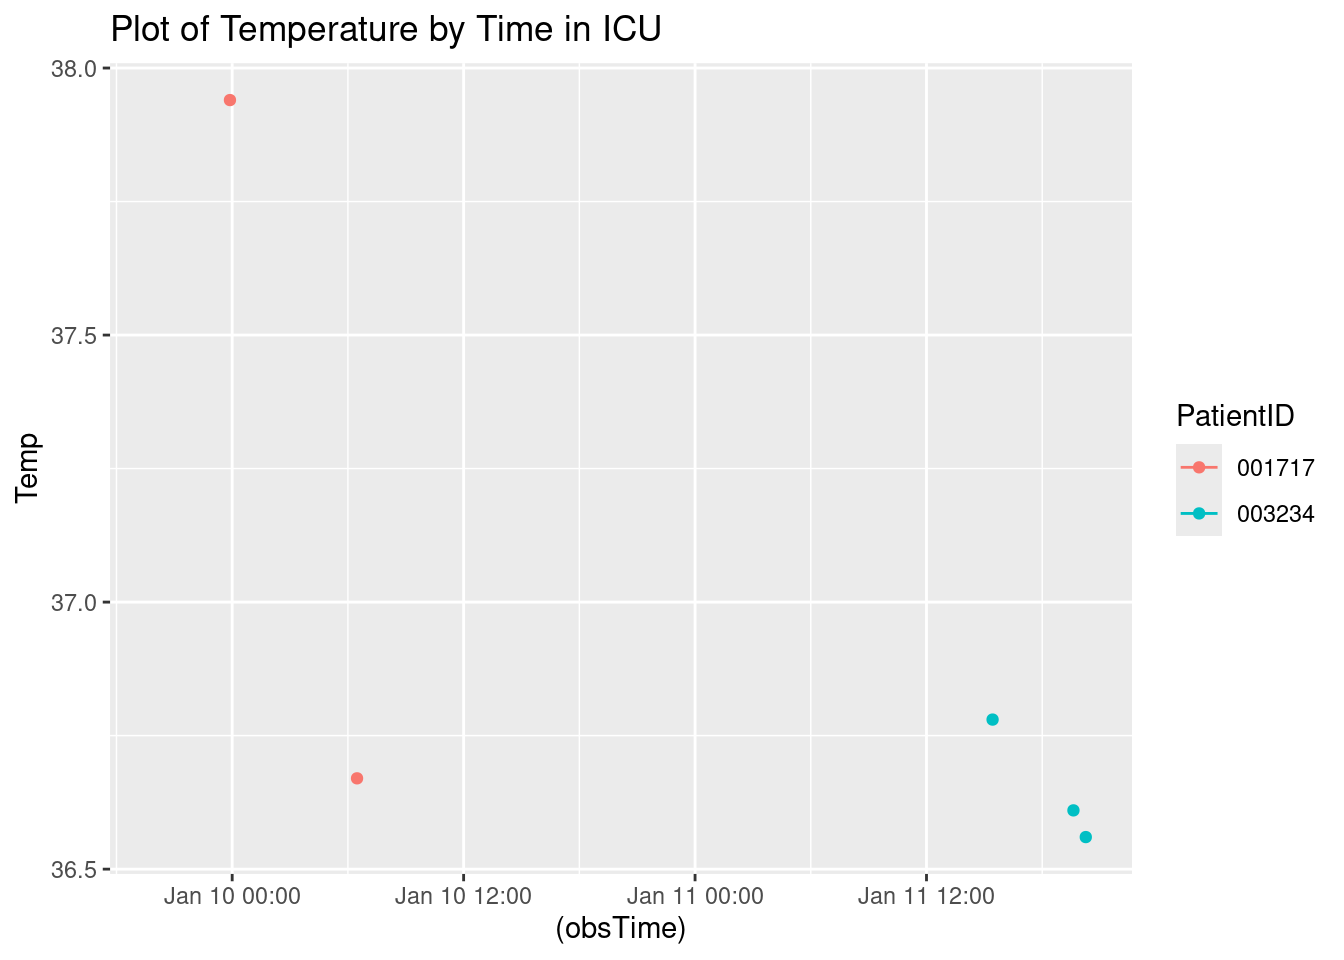
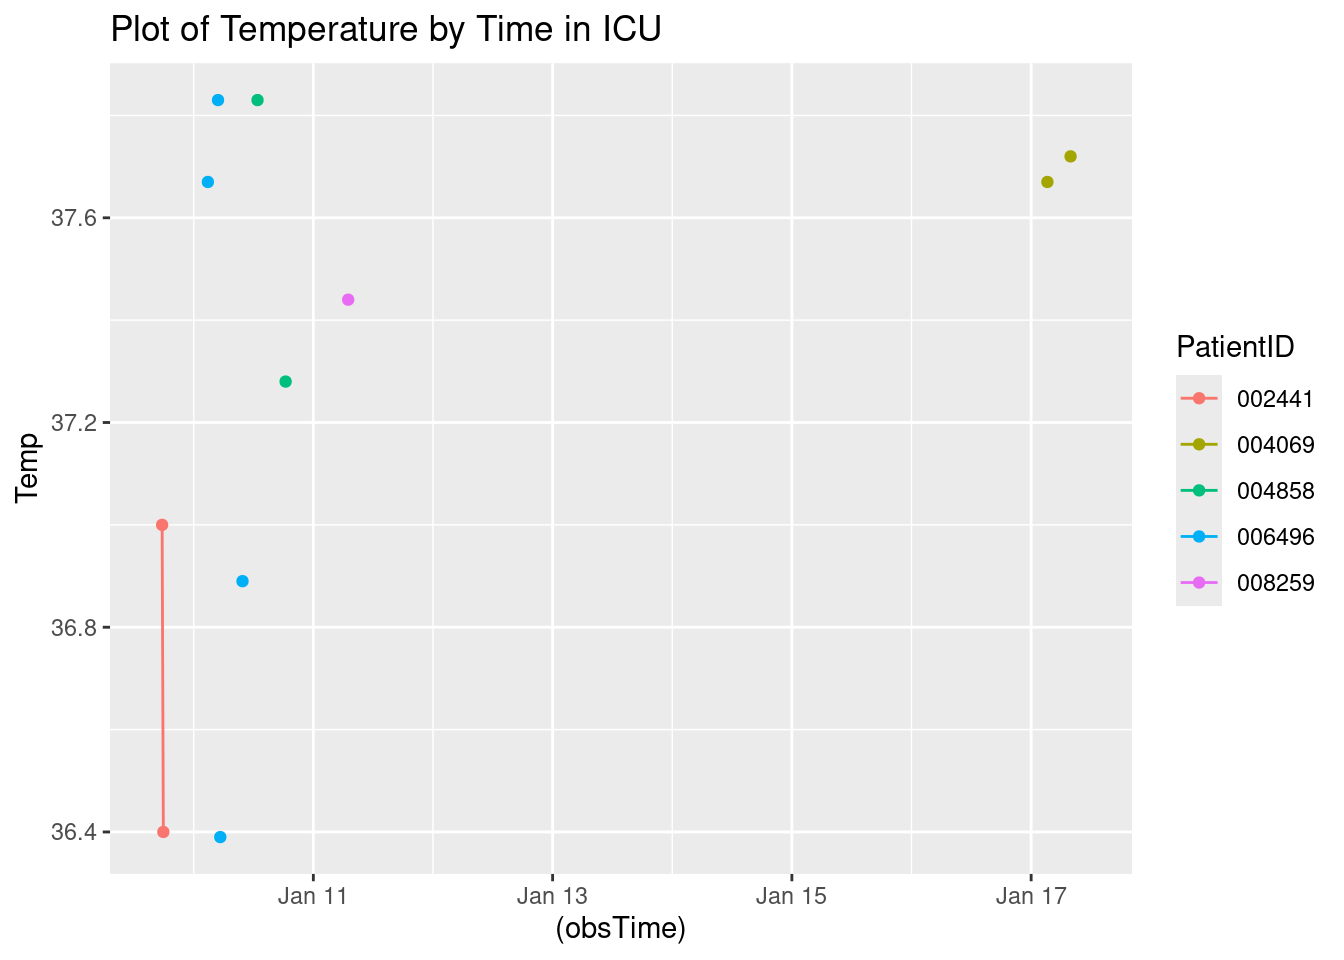
Updated report

diff --git a/A7.html b/A7.html
@@ -116,7 +116,7 @@ pre > code.sourceCode > span > a:first-child::before { text-decoration: underlin
 </div>
 <div class="sourceCode cell-code" id="cb4"><pre class="sourceCode r code-with-copy"><code class="sourceCode r"><span id="cb4-1"><a href="#cb4-1" aria-hidden="true" tabindex="-1"></a><span class="fu">toc</span>()</span></code><button title="Copy to Clipboard" class="code-copy-button"><i class="bi"></i></button></pre></div>
 <div class="cell-output cell-output-stdout">
-<pre><code>26.192 sec elapsed</code></pre>
+<pre><code>24.741 sec elapsed</code></pre>
 </div>
 <div class="sourceCode cell-code" id="cb6"><pre class="sourceCode r code-with-copy"><code class="sourceCode r"><span id="cb6-1"><a href="#cb6-1" aria-hidden="true" tabindex="-1"></a><span class="fu">tic</span>()</span>
 <span id="cb6-2"><a href="#cb6-2" aria-hidden="true" tabindex="-1"></a>test1<span class="ot">=</span><span class="fu">makeSepsisDataset</span>(<span class="at">n=</span><span class="dv">50</span>,<span class="at">read_fn =</span> <span class="st">"read_delim"</span>)</span>
@@ -126,7 +126,7 @@ pre > code.sourceCode > span > a:first-child::before { text-decoration: underlin
 </div>
 <div class="sourceCode cell-code" id="cb8"><pre class="sourceCode r code-with-copy"><code class="sourceCode r"><span id="cb8-1"><a href="#cb8-1" aria-hidden="true" tabindex="-1"></a><span class="fu">toc</span>()</span></code><button title="Copy to Clipboard" class="code-copy-button"><i class="bi"></i></button></pre></div>
 <div class="cell-output cell-output-stdout">
-<pre><code>21.012 sec elapsed</code></pre>
+<pre><code>11.013 sec elapsed</code></pre>
 </div>
 <div class="sourceCode cell-code" id="cb10"><pre class="sourceCode r code-with-copy"><code class="sourceCode r"><span id="cb10-1"><a href="#cb10-1" aria-hidden="true" tabindex="-1"></a><span class="co"># n=100</span></span>
 <span id="cb10-2"><a href="#cb10-2" aria-hidden="true" tabindex="-1"></a><span class="fu">tic</span>()</span>
@@ -137,7 +137,7 @@ pre > code.sourceCode > span > a:first-child::before { text-decoration: underlin
 </div>
 <div class="sourceCode cell-code" id="cb12"><pre class="sourceCode r code-with-copy"><code class="sourceCode r"><span id="cb12-1"><a href="#cb12-1" aria-hidden="true" tabindex="-1"></a><span class="fu">toc</span>()</span></code><button title="Copy to Clipboard" class="code-copy-button"><i class="bi"></i></button></pre></div>
 <div class="cell-output cell-output-stdout">
-<pre><code>47.036 sec elapsed</code></pre>
+<pre><code>28.97 sec elapsed</code></pre>
 </div>
 <div class="sourceCode cell-code" id="cb14"><pre class="sourceCode r code-with-copy"><code class="sourceCode r"><span id="cb14-1"><a href="#cb14-1" aria-hidden="true" tabindex="-1"></a><span class="fu">tic</span>()</span>
 <span id="cb14-2"><a href="#cb14-2" aria-hidden="true" tabindex="-1"></a>test1<span class="ot">=</span><span class="fu">makeSepsisDataset</span>(<span class="at">n=</span><span class="dv">100</span>,<span class="at">read_fn =</span> <span class="st">"read_delim"</span>)</span>
@@ -147,7 +147,7 @@ pre > code.sourceCode > span > a:first-child::before { text-decoration: underlin
 </div>
 <div class="sourceCode cell-code" id="cb16"><pre class="sourceCode r code-with-copy"><code class="sourceCode r"><span id="cb16-1"><a href="#cb16-1" aria-hidden="true" tabindex="-1"></a><span class="fu">toc</span>()</span></code><button title="Copy to Clipboard" class="code-copy-button"><i class="bi"></i></button></pre></div>
 <div class="cell-output cell-output-stdout">
-<pre><code>41.679 sec elapsed</code></pre>
+<pre><code>18.251 sec elapsed</code></pre>
 </div>
 <div class="sourceCode cell-code" id="cb18"><pre class="sourceCode r code-with-copy"><code class="sourceCode r"><span id="cb18-1"><a href="#cb18-1" aria-hidden="true" tabindex="-1"></a><span class="co"># n=500</span></span>
 <span id="cb18-2"><a href="#cb18-2" aria-hidden="true" tabindex="-1"></a><span class="fu">tic</span>()</span>
@@ -158,7 +158,7 @@ pre > code.sourceCode > span > a:first-child::before { text-decoration: underlin
 </div>
 <div class="sourceCode cell-code" id="cb20"><pre class="sourceCode r code-with-copy"><code class="sourceCode r"><span id="cb20-1"><a href="#cb20-1" aria-hidden="true" tabindex="-1"></a><span class="fu">toc</span>()</span></code><button title="Copy to Clipboard" class="code-copy-button"><i class="bi"></i></button></pre></div>
 <div class="cell-output cell-output-stdout">
-<pre><code>231.959 sec elapsed</code></pre>
+<pre><code>158.204 sec elapsed</code></pre>
 </div>
 <div class="sourceCode cell-code" id="cb22"><pre class="sourceCode r code-with-copy"><code class="sourceCode r"><span id="cb22-1"><a href="#cb22-1" aria-hidden="true" tabindex="-1"></a><span class="fu">tic</span>()</span>
 <span id="cb22-2"><a href="#cb22-2" aria-hidden="true" tabindex="-1"></a>test1<span class="ot">=</span><span class="fu">makeSepsisDataset</span>(<span class="at">n=</span><span class="dv">500</span>,<span class="at">read_fn =</span> <span class="st">"read_delim"</span>)</span>
@@ -168,7 +168,7 @@ pre > code.sourceCode > span > a:first-child::before { text-decoration: underlin
 </div>
 <div class="sourceCode cell-code" id="cb24"><pre class="sourceCode r code-with-copy"><code class="sourceCode r"><span id="cb24-1"><a href="#cb24-1" aria-hidden="true" tabindex="-1"></a><span class="fu">toc</span>()</span></code><button title="Copy to Clipboard" class="code-copy-button"><i class="bi"></i></button></pre></div>
 <div class="cell-output cell-output-stdout">
-<pre><code>215.349 sec elapsed</code></pre>
+<pre><code>93.072 sec elapsed</code></pre>
 </div>
 </div>
 <p><strong>Task 3</strong></p>
@@ -194,7 +194,7 @@ pre > code.sourceCode > span > a:first-child::before { text-decoration: underlin
 <span id="cb28-4"><a href="#cb28-4" aria-hidden="true" tabindex="-1"></a></span>
 <span id="cb28-5"><a href="#cb28-5" aria-hidden="true" tabindex="-1"></a><span class="fu">Sys.time</span>()</span></code><button title="Copy to Clipboard" class="code-copy-button"><i class="bi"></i></button></pre></div>
 <div class="cell-output cell-output-stdout">
-<pre><code>[1] "2025-01-09 15:32:12 UTC"</code></pre>
+<pre><code>[1] "2025-01-09 16:32:26 UTC"</code></pre>
 </div>
 <div class="sourceCode cell-code" id="cb30"><pre class="sourceCode r code-with-copy"><code class="sourceCode r"><span id="cb30-1"><a href="#cb30-1" aria-hidden="true" tabindex="-1"></a>dfnew <span class="ot">&lt;-</span> df <span class="sc">%&gt;%</span></span>
 <span id="cb30-2"><a href="#cb30-2" aria-hidden="true" tabindex="-1"></a>  <span class="fu">subset</span>(SepsisLabel<span class="sc">==</span><span class="dv">1</span>)</span>
@@ -223,22 +223,49 @@ pre > code.sourceCode > span > a:first-child::before { text-decoration: underlin
 </thead>
 <tbody>
 <tr class="odd">
-<td style="text-align: left;">001717</td>
-<td style="text-align: right;">17</td>
-<td style="text-align: right;">110</td>
+<td style="text-align: left;">002441</td>
+<td style="text-align: right;">7</td>
+<td style="text-align: right;">89</td>
 <td style="text-align: right;">NA</td>
-<td style="text-align: right;">23</td>
+<td style="text-align: right;">14</td>
 <td style="text-align: right;">1</td>
-<td style="text-align: left;">2025-01-10 07:27:13</td>
+<td style="text-align: left;">2025-01-09 21:19:13</td>
 </tr>
 <tr class="even">
-<td style="text-align: left;">003234</td>
-<td style="text-align: right;">55</td>
-<td style="text-align: right;">86</td>
-<td style="text-align: right;">36.56</td>
-<td style="text-align: right;">27</td>
+<td style="text-align: left;">004069</td>
+<td style="text-align: right;">187</td>
+<td style="text-align: right;">66</td>
+<td style="text-align: right;">NA</td>
+<td style="text-align: right;">19</td>
 <td style="text-align: right;">1</td>
-<td style="text-align: left;">2025-01-11 20:15:33</td>
+<td style="text-align: left;">2025-01-17 10:57:42</td>
+</tr>
+<tr class="odd">
+<td style="text-align: left;">004858</td>
+<td style="text-align: right;">29</td>
+<td style="text-align: right;">65</td>
+<td style="text-align: right;">NA</td>
+<td style="text-align: right;">16</td>
+<td style="text-align: right;">1</td>
+<td style="text-align: left;">2025-01-10 19:45:03</td>
+</tr>
+<tr class="even">
+<td style="text-align: left;">006496</td>
+<td style="text-align: right;">18</td>
+<td style="text-align: right;">73</td>
+<td style="text-align: right;">NA</td>
+<td style="text-align: right;">9</td>
+<td style="text-align: right;">1</td>
+<td style="text-align: left;">2025-01-10 10:23:53</td>
+</tr>
+<tr class="odd">
+<td style="text-align: left;">008259</td>
+<td style="text-align: right;">43</td>
+<td style="text-align: right;">69</td>
+<td style="text-align: right;">NA</td>
+<td style="text-align: right;">20</td>
+<td style="text-align: right;">1</td>
+<td style="text-align: left;">2025-01-11 10:27:33</td>
 </tr>
 </tbody>
 </table>
